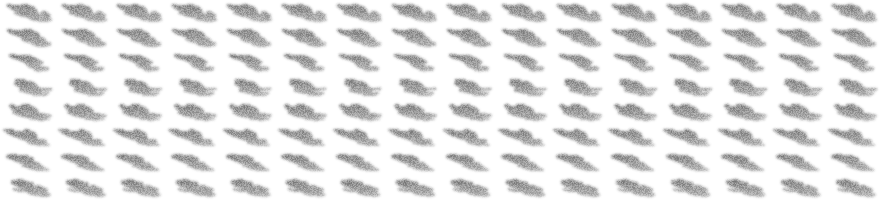
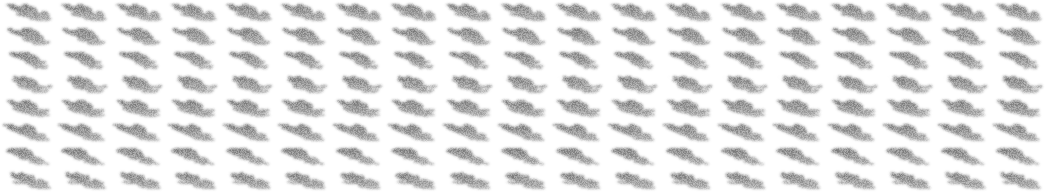
walk: 대기 포즈 2종(맨손·칼) + 동작별 재생 속도 + 누운 자세 그림자
시트가 kind·clip_sec·fps 를 싣고 페이지가 그 값으로 재생한다. 두 캐릭터의 공격이 이제 둘 다
2.8 초에 끝난다 — 전에는 프레임 수를 캐릭터마다 손으로 정해 흑도포가 1.5 배 빨랐다.
대기는 정지 포즈 2종으로 바꾸고 자세 탭(맨손/칼)을 붙였다. 그림자는 깊이로 잰 진짜 높이를
써서 쓰러진 몸 밑에 눕는다.

diff --git a/walk/walk.html b/walk/walk.html
@@ -80,6 +80,7 @@ footer{display:flex;flex-wrap:wrap;gap:7px 8px;align-items:center;
 <div class="bar">
   <div class="grp"><label>캐릭터</label><div class="tabs" id="who"></div></div>
   <div class="grp"><label>이동</label><div class="tabs" id="gait"></div></div>
+  <div class="grp"><label>자세</label><div class="tabs" id="stance"></div></div>
   <div class="grp"><label>배율</label><div class="tabs" id="zoom"></div></div>
   <div class="grp"><div class="tabs">
     <button id="atk" type="button">공격</button>
@@ -106,13 +107,16 @@ footer{display:flex;flex-wrap:wrap;gap:7px 8px;align-items:center;
   <span class="chip">방향 <b id="r-dir">S</b></span>
   <span class="chip">남은 경로 <b id="r-path">0</b>칸</span>
   <span class="chip" id="r-hit" data-tone="go">지날 수 있음</span>
-  <span class="note">캐릭터 72&nbsp;px · 8방향 × 16프레임 · 통행 <b id="r-walk">—</b>/1600칸 · <a href="../demo40.html">지도 원본</a></span>
+  <span class="note">캐릭터 72&nbsp;px · 8방향 · 동작별 프레임 · 통행 <b id="r-walk">—</b>/1600칸 · <a href="../demo40.html">지도 원본</a></span>
 </footer>
 
 <script>
 const DIRS = ["s","se","e","ne","n","nw","w","sw"];
 // 시트는 행 = 8 방향, 열 = 프레임. 셀 크기·앵커·프레임 수는 동작마다 달라 매니페스트에서 읽는다
-const ACT = {idle:{ko:"대기",loop:true,fps:10}, walk:{ko:"걷기",loop:true,fps:14},
+// fps 는 매니페스트에 재생 규칙이 없는 옛 시트를 위한 대비값이다. format 3 시트는 kind·fps 를
+// 실어 오고, 이동 루프(walk/run)만 아래 값으로 돈다 — 걸음은 이동 속도에 맞춰야 미끄러지지 않는다.
+const ACT = {idle:{ko:"대기",loop:true,fps:10}, idle_blade:{ko:"대기(칼)",loop:true,fps:10},
+             walk:{ko:"걷기",loop:true,fps:14},
              run:{ko:"달리기",loop:true,fps:18}, attack:{ko:"공격",loop:false,fps:16},
              jab:{ko:"잽",loop:false,fps:16}, dead:{ko:"쓰러짐",loop:false,fps:12}};
 const GAIT_SPD = {walk:3.0, run:4.8};   // 칸/s — 오너가 눈으로 정한 값
@@ -124,7 +128,7 @@ const gridC = document.getElementById("grid"), jabBtn = document.getElementById(
 
 let M, WALK, N, MM, TW, TH, HW, HH, OX, OY, CW, CH, FLOORS;
 const S = {zoom:2, ch:null, gait:"walk", speed:3.0, showGrid:false,
-           fi:0, fj:0, path:[], act:"idle", dir:"s", f:0, t:0, once:null};
+           fi:0, fj:0, path:[], act:"idle", stance:"idle", dir:"s", f:0, t:0, once:null};
 
 const tileCenter = (i,j) => [OX + HW*(i-j), OY + HH*(i+j)];
 const inb = (i,j) => i>=0 && i<N && j>=0 && j<MM;
@@ -242,16 +246,24 @@ function frame(now){
     const ang = Math.atan2(-(HH*(dx+dy)), HW*(dx-dy));
     S.dir = ["e","ne","n","nw","w","sw","s","se"][(Math.round(ang/(Math.PI/4))+8)%8];
     if (S.act !== S.gait){ S.act = S.gait; S.f = 0; S.t = 0; }
-  } else if (!S.once && S.act !== "idle"){ S.act = "idle"; S.f = 0; S.t = 0; }
+  } else if (!S.once && S.act !== S.stance){ S.act = S.stance; S.f = 0; S.t = 0; }
 
   const a = ACT[S.act];
   let E = ENTRY(S.ch, S.act), NF = E ? E.frames : 1;
-  S.t += dt*a.fps;
-  while (S.t >= 1){
-    S.t -= 1;
-    if (a.loop) S.f = (S.f+1) % NF;
-    else if (S.f < NF-1) S.f++;
-    else if (S.once === "attack" || S.once === "jab"){ S.once = null; S.act = "idle"; S.f = 0; }
+  // 재생 속도는 시트에서 읽는다. 프레임 수를 캐릭터마다 손으로 정하던 때는 같은 2.83 초 공격
+  // 클립이 16 장·24 장으로 뽑혀 두 캐릭터의 공격 속도가 1.5 배 달랐다 — 그 값이 여기 있었다.
+  const kind = (E && E.kind) || (a.loop ? "move" : "oneshot");
+  const loop = kind === "move" || kind === "ambient";
+  const fps  = kind === "move" ? a.fps : ((E && E.fps) || a.fps);
+  if (kind === "hold"){ S.f = 0; S.t = 0; }
+  else {
+    S.t += dt*fps;
+    while (S.t >= 1){
+      S.t -= 1;
+      if (loop) S.f = (S.f+1) % NF;
+      else if (S.f < NF-1) S.f++;
+      else if (S.once === "attack" || S.once === "jab"){ S.once = null; S.act = S.stance; S.f = 0; }
+    }
   }
   // 위 루프에서 동작이 바뀔 수 있다. 셀 크기·앵커·프레임 수는 동작마다 다르므로 여기서 다시 읽는다 —
   // 옛 동작의 셀 크기로 새 동작 시트를 그리면 그 한 프레임 동안 시트가 통째로 펼쳐져 보인다.
@@ -348,7 +360,13 @@ Promise.all([fetch("walk.json").then(r=>r.json()), fetch("chars.json").then(r=>r
   tabs(document.getElementById("who"),
        Object.keys(CHARS).map(k=>[k, CHARS[k].ko]), ()=>S.ch,
        v => { S.ch = v; jabBtn.disabled = !CHARS[v].actions.jab;
-              if (!CHARS[v].actions[S.act]){ S.act="idle"; S.f=0; S.once=null; } });
+              if (!CHARS[v].actions[S.stance]) S.stance = "idle";
+              if (!CHARS[v].actions[S.act]){ S.act=S.stance; S.f=0; S.once=null; } });
+  tabs(document.getElementById("stance"), [["idle","맨손"],["idle_blade","칼"]], ()=>S.stance,
+       v => { if (!CHARS[S.ch].actions[v]) return;
+              S.stance = v;
+              if (!S.once && (S.act === "idle" || S.act === "idle_blade")){
+                S.act = v; S.f = 0; S.t = 0; } });
   tabs(document.getElementById("gait"), [["walk","걷기"],["run","달리기"]], ()=>S.gait,
        v => { S.gait = v; S.speed = GAIT_SPD[v]; });
   tabs(document.getElementById("zoom"), [[1,"1×"],[2,"2×"],[3,"3×"]], ()=>S.zoom,
